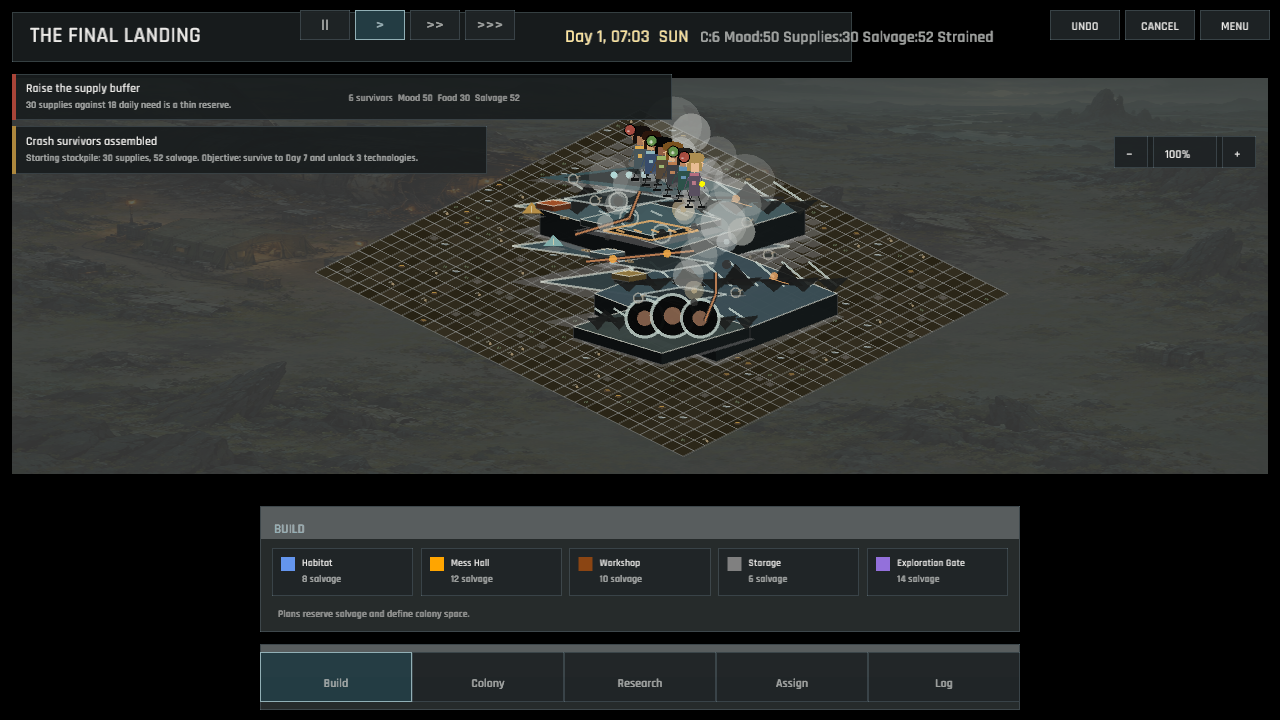
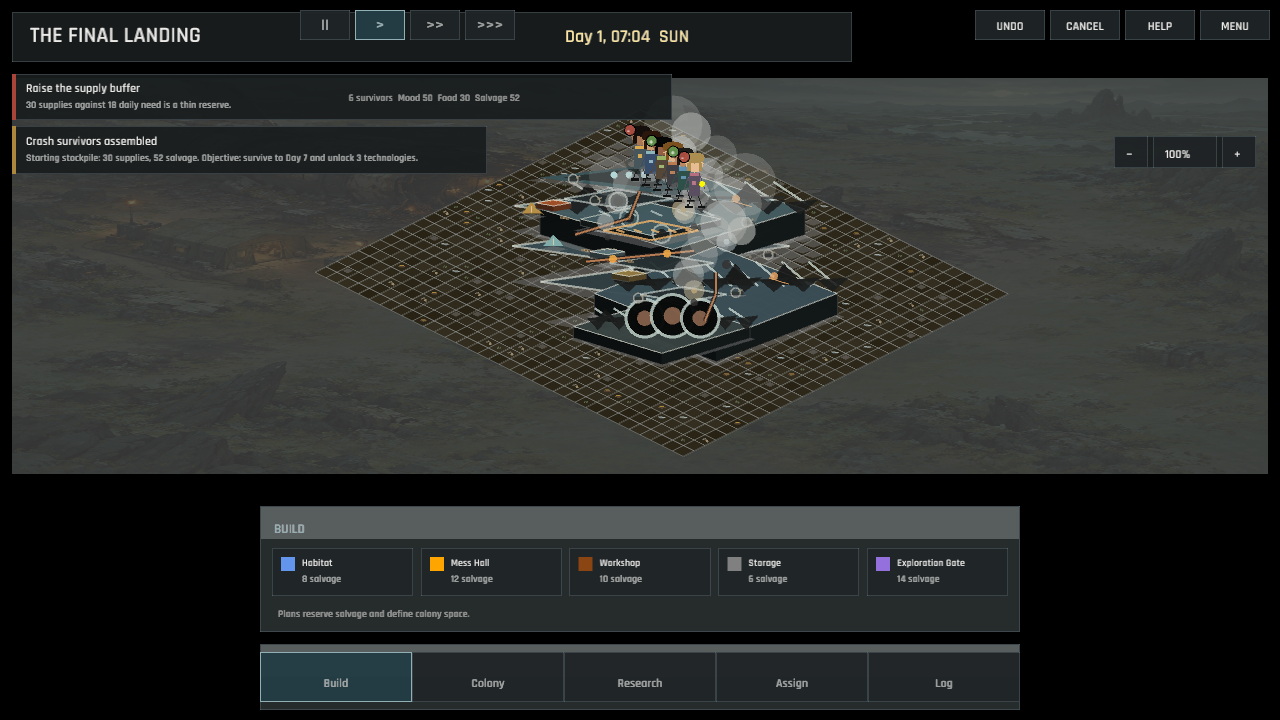
The landing keeps its lessons one tap away (contextual help)
Add a visible HELP action and a dismissible, reopenable colony guide covering build, assign, research, and recovery decisions. Keep the guide touch-sized and prevent its overlay from leaking input into the map or simulation.

Refresh the normal and minimum-baseline captures, add a HELP capture fixture and top-bar regression test, and update TODO.md. Isolated project validation passed 169 tests, direct source rustfmt passed, and Clippy passed with warnings denied. The required Windows/WebGL preview publish completed; Project Roost tracking was unavailable on localhost.

Changed region(s): [[0.5, 0.0, 0.9375, 0.0611]]

diff --git a/src/ui/introduction.rs b/src/ui/introduction.rs
@@ -1,6 +1,7 @@
 //! First-run arrival briefing shown before the survivor roster becomes active.
 
 use crate::ui::hit_zones::introduction_continue_rect;
+use crate::ui::hit_zones::{help_close_rect, help_panel_rect};
 use crate::ui::style;
 use macroquad::prelude::*;
 use macroquad_toolkit::ui::{draw_ui_text, measure_ui_text};
@@ -69,6 +70,74 @@ pub fn draw_arrival_overlay(stage: usize) {
         label,
         button.x + (button.w - label_width) * 0.5,
         button.y + 30.0,
+        style::BODY_SIZE,
+        style::TEXT_PRIMARY,
+    );
+}
+
+pub fn draw_help_overlay() {
+    let panel = help_panel_rect(screen_width(), screen_height());
+    draw_rectangle(
+        0.0,
+        0.0,
+        screen_width(),
+        screen_height(),
+        Color::new(0.01, 0.02, 0.025, 0.7),
+    );
+    style::draw_deep_panel(panel);
+    draw_ui_text(
+        "COLONY HELP",
+        panel.x + 18.0,
+        panel.y + 31.0,
+        style::TITLE_SIZE,
+        style::TEXT_PRIMARY,
+    );
+    draw_ui_text(
+        "Reopen this guide any time from HELP.",
+        panel.x + 18.0,
+        panel.y + 55.0,
+        style::SMALL_SIZE,
+        style::TEXT_MUTED,
+    );
+
+    let text = &crate::data::config::game_config().text;
+    let sections = [
+        ("BUILD", text.intro_building.as_str()),
+        (
+            "ASSIGN",
+            "Tap a survivor to inspect. Use NEXT ROLE, PAIR / APART, or FILTER ROOM before changing the colony.",
+        ),
+        ("RESEARCH", text.intro_missions.as_str()),
+        (
+            "RECOVER",
+            "Use UNDO or CANCEL beside an active plan. MENU saves before leaving; outcomes offer Review, Restart, and Return to Menu.",
+        ),
+    ];
+    for (index, (heading, body)) in sections.into_iter().enumerate() {
+        let y = panel.y + 88.0 + index as f32 * 48.0;
+        draw_ui_text(
+            heading,
+            panel.x + 18.0,
+            y,
+            style::SMALL_SIZE,
+            style::ACCENT_GOLD,
+        );
+        draw_wrapped_text(
+            body,
+            panel.x + 92.0,
+            y,
+            panel.w - 110.0,
+            style::SMALL_SIZE,
+            style::TEXT_BODY,
+        );
+    }
+
+    let close = help_close_rect(screen_width(), screen_height());
+    style::draw_button(close, false, style::button_hovered(close));
+    draw_ui_text(
+        "CLOSE HELP",
+        close.x + 49.0,
+        close.y + 29.0,
         style::BODY_SIZE,
         style::TEXT_PRIMARY,
     );

diff --git a/src/ui/hit_zones/top_bar.rs b/src/ui/hit_zones/top_bar.rs
@@ -20,6 +20,7 @@ pub const BUTTON_GAP: f32 = 5.0;
 pub enum TopBarAction {
     Undo,
     Cancel,
+    Help,
     Menu,
 }
 
@@ -28,9 +29,13 @@ pub fn top_bar_action_rect(layout: &Layout, action: TopBarAction) -> Rect {
     let width = if phone { 54.0 } else { 70.0 };
     let y = if phone { 32.0 } else { TOP_BAR_BUTTON_Y };
     let height = if phone { 20.0 } else { TOP_BAR_BUTTON_H };
+    let action_count = 4.0;
     let x = match action {
-        TopBarAction::Undo => layout.viewport_width - width * 3.0 - BUTTON_GAP * 2.0 - 10.0,
-        TopBarAction::Cancel => layout.viewport_width - width * 2.0 - BUTTON_GAP - 10.0,
+        TopBarAction::Undo => {
+            layout.viewport_width - width * action_count - BUTTON_GAP * 3.0 - 10.0
+        }
+        TopBarAction::Cancel => layout.viewport_width - width * 3.0 - BUTTON_GAP * 2.0 - 10.0,
+        TopBarAction::Help => layout.viewport_width - width * 2.0 - BUTTON_GAP - 10.0,
         TopBarAction::Menu => layout.viewport_width - width - 10.0,
     };
     Rect::new(x.max(8.0), y, width, height)
@@ -38,9 +43,14 @@ pub fn top_bar_action_rect(layout: &Layout, action: TopBarAction) -> Rect {
 
 pub fn top_bar_action_at(layout: &Layout, x: f32, y: f32) -> Option<TopBarAction> {
     hit_test(
-        [TopBarAction::Undo, TopBarAction::Cancel, TopBarAction::Menu]
-            .into_iter()
-            .map(|action| HitTarget::new(top_bar_action_rect(layout, action), action)),
+        [
+            TopBarAction::Undo,
+            TopBarAction::Cancel,
+            TopBarAction::Help,
+            TopBarAction::Menu,
+        ]
+        .into_iter()
+        .map(|action| HitTarget::new(top_bar_action_rect(layout, action), action)),
         vec2(x, y),
     )
 }

diff --git a/src/state/game_state_lifecycle.rs b/src/state/game_state_lifecycle.rs
@@ -3,7 +3,7 @@
 use super::*;
 use crate::state::persistence::save_game;
 use crate::ui::introduction::{draw_arrival_overlay, ARRIVAL_STAGE_COUNT};
-use crate::ui::introduction_continue_rect;
+use crate::ui::{draw_help_overlay, help_close_rect, introduction_continue_rect};
 
 impl State for GameplayState {
     fn update(&mut self) -> StateTransition {
@@ -31,6 +31,16 @@ impl State for GameplayState {
                 } else {
                     self.arrival_stage = Some(stage + 1);
                 }
+            }
+            return StateTransition::None;
+        }
+
+        if self.help_open {
+            if input.escape_pressed
+                || (input.left_released
+                    && help_close_rect(screen_width(), screen_height()).contains(input.mouse_pos))
+            {
+                self.help_open = false;
             }
             return StateTransition::None;
         }
@@ -237,6 +247,9 @@ impl State for GameplayState {
         self.draw_scenario_overlay();
         if let Some(stage) = self.arrival_stage {
             draw_arrival_overlay(stage);
+        }
+        if self.help_open {
+            draw_help_overlay();
         }
     }
 }

diff --git a/src/ui/hit_zones/menu.rs b/src/ui/hit_zones/menu.rs
@@ -56,6 +56,27 @@ pub fn introduction_continue_rect(screen_width: f32, screen_height: f32) -> Rect
     )
 }
 
+pub fn help_panel_rect(screen_width: f32, screen_height: f32) -> Rect {
+    let width = (screen_width - 24.0).clamp(320.0, 700.0);
+    let height = 330.0_f32.min(screen_height - 24.0);
+    Rect::new(
+        (screen_width - width) * 0.5,
+        (screen_height - height) * 0.5,
+        width,
+        height,
+    )
+}
+
+pub fn help_close_rect(screen_width: f32, screen_height: f32) -> Rect {
+    let panel = help_panel_rect(screen_width, screen_height);
+    Rect::new(
+        panel.x + panel.w * 0.5 - 100.0,
+        panel.bottom() - 54.0,
+        200.0,
+        44.0,
+    )
+}
+
 pub fn restart_button_rect(screen_width: f32, screen_height: f32) -> Rect {
     Rect::new(
         screen_width * 0.5 - 90.0,

diff --git a/src/ui/top_bar.rs b/src/ui/top_bar.rs
@@ -84,7 +84,12 @@ pub fn draw_top_bar(
         );
     }
 
-    for action in [TopBarAction::Undo, TopBarAction::Cancel, TopBarAction::Menu] {
+    for action in [
+        TopBarAction::Undo,
+        TopBarAction::Cancel,
+        TopBarAction::Help,
+        TopBarAction::Menu,
+    ] {
         let action_rect = top_bar_action_rect(layout, action);
         let hovered = style::button_hovered(action_rect);
         style::draw_button(action_rect, false, hovered);
@@ -95,6 +100,7 @@ pub fn draw_top_bar(
             TopBarAction::Cancel => crate::data::config::game_config()
                 .text
                 .label("toolbar_cancel"),
+            TopBarAction::Help => "HELP",
             TopBarAction::Menu => "MENU",
         };
         let label_width = measure_ui_text(label, None, 12, 1.0).width;

diff --git a/src/state/game_state.rs b/src/state/game_state.rs
@@ -140,6 +140,8 @@ pub struct GameplayState {
     pub menu_requested: bool,
     /// Whether the finished-scenario result is currently showing the Log view.
     pub result_review_open: bool,
+    /// Whether the contextual help disclosure is open.
+    pub help_open: bool,
     /// Brief acknowledgement for the latest player-visible event.
     pub action_feedback: Option<ActionFeedback>,
     /// Event-log length already surfaced in the transient acknowledgement.
@@ -228,6 +230,7 @@ impl GameplayState {
             save_error_reported: false,
             menu_requested: false,
             result_review_open: false,
+            help_open: false,
             action_feedback: None,
             feedback_seen_log_len,
             selected_mission_type,

diff --git a/tests/src/ui/hit_zones/top_bar/tests.rs b/tests/src/ui/hit_zones/top_bar/tests.rs
@@ -18,3 +18,13 @@ fn test_top_bar_priority_hit_zones_match_visible_buttons() {
 
     assert_eq!(top_bar_priority_at(x, y), Some(ColonyPriority::Survey));
 }
+
+#[test]
+fn test_top_bar_help_action_has_a_distinct_visible_target() {
+    let layout = finallanding::ui::Layout::responsive(1280.0, 720.0);
+    let rect = top_bar_action_rect(&layout, TopBarAction::Help);
+    let (x, y) = center(rect);
+
+    assert_eq!(top_bar_action_at(&layout, x, y), Some(TopBarAction::Help));
+    assert!(!rect.overlaps(&top_bar_action_rect(&layout, TopBarAction::Menu)));
+}

diff --git a/src/game.rs b/src/game.rs
@@ -209,6 +209,9 @@ impl Game {
         if scene == "smoke_closed_1280x720" {
             gameplay.context_panel_open = false;
         }
+        if scene == "help_1280x720" {
+            gameplay.help_open = true;
+        }
         if scene == "smoke_research_ready_1280x720" {
             let data = &mut gameplay.data;
             let crate::state::runtime_state::GameState {

diff --git a/src/state/game_state_priority_commands.rs b/src/state/game_state_priority_commands.rs
@@ -34,6 +34,7 @@ impl GameplayState {
                     self.assign_pair_armed = false;
                     self.social_history_search_active = false;
                 }
+                TopBarAction::Help => self.help_open = true,
                 TopBarAction::Menu => self.menu_requested = true,
             }
             return;

diff --git a/TODO.md b/TODO.md
@@ -22,7 +22,7 @@ root. Keep this existing tracked `TODO.md` as the single backlog (the requested
   - **Visual evidence:** the current checkout has fresh native captures in
     `docs/verification/` for ordinary, closed-tray, Colony objectives, Assign,
     Research, placement, activity poses, Log timeline, event history, selected Log
-    report, menu, results, and the 720x480 Assign/Research states. The normal 1280x720 and large
+    report, menu, results, help, and the 720x480 Assign/Research states. The normal 1280x720 and large
   1920x1080 captures show the colony as the dominant field without permanent
   rails; the Colony, Assign, Research, and Log captures show secondary information
   replacing the world area instead of stacking over it. These captures verify
@@ -254,8 +254,9 @@ root. Keep this existing tracked `TODO.md` as the single backlog (the requested
     becomes permanent wallpaper. Depends on UI-01/03/04/08.
   - **Current state:** placement feedback now keeps footprint, cost, effect, and
     blocking reason beside the preview, and touch copy uses the visible FILTER
-    ROOM and Tap actions. The arrival mission step is named Research. A
-    persistent Help/reopen route and the full teaching review remain.
+    ROOM and Tap actions. The arrival mission step is named Research, and HELP
+    reopens a concise decision guide without restarting the run. The full
+    teaching review remains.
 
 ### Further inspection and implementation sign-off — not verified defects
 
